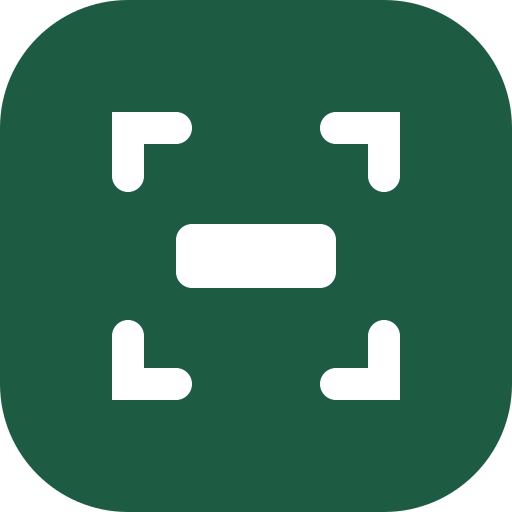
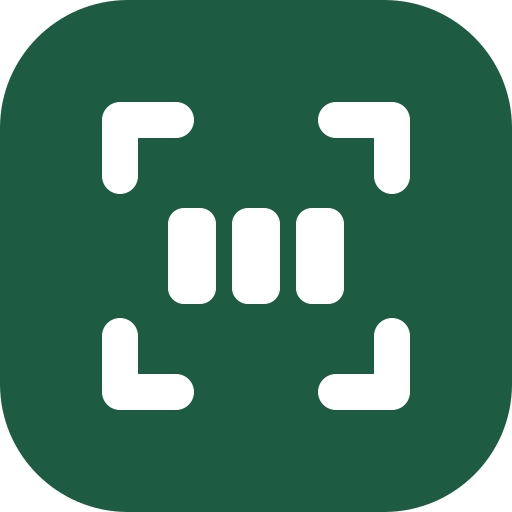
検索とSNS共有向けの説明・共有画像・robots.txt・sitemap.xmlを加え、ロゴを作り直した

diff --git a/index.html b/index.html
@@ -24,10 +24,52 @@
     <link rel="icon" href="./icon.svg" type="image/svg+xml" />
     <link rel="apple-touch-icon" href="./apple-touch-icon.png" />
     <meta name="apple-mobile-web-app-title" content="ｼﾘｱﾙｽﾅｯﾌﾟ" />
-    <title>シリアルスナップ</title>
+    <title>シリアルスナップ｜forTUNE meetsのシリアルナンバーを写真から読み取り</title>
+    <!--
+      検索結果とSNSで共有したときの表示。画面はURLのハッシュで切り替えるため、載せるページは / だけ。
+      共有の画像は絶対URLでないと読まれないため、公開先（docs/deploy.md）のURLを書く。og-image.png はデザインキャンバスの「共有画像」の画板を書き出したもの。
+    -->
+    <meta
+      name="description"
+      content="forTUNE meets（フォーチュンミーツ）の応募券を撮影するだけで、シリアルナンバーをまとめて読み取る非公式ツール。10件ずつコピーして、応募サイトへ貼り付けられます。写真もシリアルナンバーも端末の外へ送りません。"
+    />
+    <link rel="canonical" href="https://serial-snap.yabworks.com/" />
+    <meta property="og:type" content="website" />
+    <meta property="og:site_name" content="シリアルスナップ" />
+    <meta property="og:title" content="シリアルスナップ" />
+    <meta
+      property="og:description"
+      content="応募券を撮影するだけで、forTUNE meetsのシリアルナンバーをまとめて読み取る非公式ツール。写真もシリアルナンバーも端末の外へ送りません。"
+    />
+    <meta property="og:url" content="https://serial-snap.yabworks.com/" />
+    <meta property="og:image" content="https://serial-snap.yabworks.com/og-image.png" />
+    <meta property="og:image:width" content="1200" />
+    <meta property="og:image:height" content="630" />
+    <meta property="og:image:alt" content="シリアルスナップ。応募券を撮影するだけで、シリアルナンバーをまとめて読み取り。写真もシリアルナンバーも、端末の外へ送りません" />
+    <meta property="og:locale" content="ja_JP" />
+    <meta name="twitter:card" content="summary_large_image" />
+    <!-- 検索エンジン向けのアプリの説明。実行されないデータのため、CSP の script-src に掛からない -->
+    <script type="application/ld+json">
+      {
+        "@context": "https://schema.org",
+        "@type": "WebApplication",
+        "name": "シリアルスナップ",
+        "url": "https://serial-snap.yabworks.com/",
+        "description": "forTUNE meetsの応募券を撮影して、シリアルナンバーをまとめて読み取る非公式ツール。",
+        "applicationCategory": "UtilitiesApplication",
+        "operatingSystem": "iOS, Android, Windows, macOS",
+        "browserRequirements": "JavaScriptとWebAssemblyが動くブラウザ",
+        "inLanguage": "ja",
+        "isAccessibleForFree": true,
+        "offers": { "@type": "Offer", "price": "0", "priceCurrency": "JPY" }
+      }
+    </script>
   </head>
   <body>
     <div id="root"></div>
+    <noscript>
+      シリアルスナップは、forTUNE meetsのシリアルナンバーを写真から読み取る非公式ツールです。読み取りは端末の中で行うため、JavaScriptを有効にしてお使いください。
+    </noscript>
     <script type="module" src="./src/client/main.tsx"></script>
   </body>
 </html>

diff --git a/src/client/components/TopBar.tsx b/src/client/components/TopBar.tsx
@@ -11,6 +11,7 @@ import { Logo } from "./Logo.tsx";
  * @param back 戻るボタンの押したときの動きと、読み上げの名前
  * @param sub 題の下に小さく添える文（「あと29日で削除」など）
  * @param compact 題を一段小さくする（読み取り結果の日時のように、長い題で右の操作と並べるとき）
+ * @param heading 題をページの見出し（h1）にする。本文に見出しのない画面（トップ）で使う
  */
 export function TopBar({
   title,
@@ -19,6 +20,7 @@ export function TopBar({
   back,
   actions,
   compact = false,
+  heading = false,
 }: {
   title: ReactNode;
   sub?: ReactNode;
@@ -27,7 +29,9 @@ export function TopBar({
   back?: { label: string; onClick: () => void };
   actions?: ReactNode;
   compact?: boolean;
+  heading?: boolean;
 }) {
+  const Title = heading ? "h1" : "span";
   return (
     <div
       className={cx(
@@ -64,7 +68,7 @@ export function TopBar({
       {leading}
       <div className={css({ flex: "1", minW: "0", display: "flex", flexDirection: "column" })}>
         <div className={css({ display: "flex", alignItems: "center", gap: "2" })}>
-          <span
+          <Title
             className={css({
               fontSize: compact ? "md" : "lg",
               fontWeight: "bold",
@@ -75,7 +79,7 @@ export function TopBar({
             })}
           >
             {title}
-          </span>
+          </Title>
         </div>
         {sub && (
           <span className={css({ fontSize: "xs", color: "fg.muted", lineHeight: "tight" })}>
@@ -123,14 +127,16 @@ export function HeaderActions() {
  * アプリの名前のヘッダー。トップと、読み取り中・まとめの画面のように、
  * 画面の名前を題にしない（本文の見出しで示す）画面で使う。
  * @param actions 右に置く操作。スキャン中は画面を離れないよう置かない
+ * @param heading アプリの名前をページの見出し（h1）にする。トップで使う（検索エンジンがページの主題として読む）
  */
-export function AppBar({ actions }: { actions?: ReactNode }) {
+export function AppBar({ actions, heading }: { actions?: ReactNode; heading?: boolean }) {
   return (
     <TopBar
       title="シリアルスナップ"
       sub="forTUNE meets非公式ツール"
       leading={<Logo />}
       actions={actions}
+      heading={heading}
     />
   );
 }

diff --git a/src/client/features/guide/AddBookmarkletPage.tsx b/src/client/features/guide/AddBookmarkletPage.tsx
@@ -48,7 +48,10 @@ function detectDevice(): Device {
 /** コピーしてから次のステップへ進むまでの時間。「コピーしました」を読めるだけの間を置く。 */
 const AUTO_NEXT_MS = 1200;
 
-/** 案内で例に出す、ブックマークレットの名前。アプリのページのタイトルと同じで、追加するときに自動で入る。 */
+/**
+ * 案内で例に出す、ブックマークレットの名前。この画面の間だけページのタイトルをこれにし、
+ * ブックマークに追加するときに自動で入るようにする（ふだんのタイトルは検索結果向けに長い）。
+ */
 const EXAMPLE_NAME = "シリアルスナップ";
 
 /** 図の中で押す場所。対象の要素に「ここを押す」の枠を付けるため、角を丸めて少し余白を取る。 */
@@ -754,6 +757,13 @@ function pcSteps() {
 /** ブックマークレットの追加方法。端末ごとのタブで、1画面1ステップの図解を出す。 */
 export function AddBookmarkletPage() {
   const [device, setDevice] = useState<Device>(detectDevice);
+  useEffect(() => {
+    const original = document.title;
+    document.title = EXAMPLE_NAME;
+    return () => {
+      document.title = original;
+    };
+  }, []);
   const [step, setStep] = useState(0);
   const next = () => setStep(1);
   const steps =

diff --git a/scripts/vite-sw.ts b/scripts/vite-sw.ts
@@ -5,8 +5,10 @@ import { build, type Plugin } from "vite";
 
 const ENTRY = fileURLToPath(new URL("../src/sw/sw.ts", import.meta.url));
 const PUBLIC_DIR = new URL("../public/", import.meta.url);
-/** 配信の設定で、ブラウザには届かないファイル。 */
-const NOT_SERVED = new Set(["_headers"]);
+/**
+ * 端末に保存しないファイル。_headers は配信の設定でブラウザに届かず、ほかは検索エンジンやSNS向けで画面が使わない。
+ */
+const NOT_CACHED = new Set(["_headers", "robots.txt", "sitemap.xml", "og-image.png"]);
 
 /** Service Worker を、配るファイルの一覧と保存先の名前を埋め込んで1つのファイルにまとめる。 */
 async function bundle(files: string[], cacheName: string): Promise<string> {
@@ -43,7 +45,7 @@ export function serviceWorker(): Plugin {
     // index.html の中身も版に含めるため、画面のファイルを出力し終えたあとに作る
     enforce: "post",
     async generateBundle(_options, output) {
-      const publicFiles = (await readdir(PUBLIC_DIR)).filter((f) => !NOT_SERVED.has(f));
+      const publicFiles = (await readdir(PUBLIC_DIR)).filter((f) => !NOT_CACHED.has(f));
       const files = [
         ...Object.keys(output).filter((f) => f !== "index.html"),
         ...publicFiles,

diff --git a/src/client/components/Logo.tsx b/src/client/components/Logo.tsx
@@ -1,16 +1,19 @@
-/** アプリのロゴマーク（緑の角丸に読み取り枠とシリアルの枠）。ホーム画面に追加したときのアイコンも、この形で作る。 */
+/** アプリのロゴマーク（緑の角丸に読み取り枠と3文字）。ホーム画面に追加したときのアイコンも、この形で作る。 */
 export function Logo({ size = 32 }: { size?: number }) {
   return (
     <svg width={size} height={size} viewBox="0 0 32 32" aria-hidden="true" style={{ flex: "none" }}>
       <rect width="32" height="32" rx="8" fill="#1D5C42" />
       <path
-        d="M8 11V8h3M21 8h3v3M24 21v3h-3M11 24H8v-3"
+        d="M7.5 11V7.5H11M21 7.5h3.5V11M24.5 21v3.5H21M11 24.5H7.5V21"
         fill="none"
         stroke="#FFFFFF"
-        strokeWidth="2"
+        strokeWidth="2.25"
         strokeLinecap="round"
+        strokeLinejoin="round"
       />
-      <rect x="11" y="14" width="10" height="4" rx="1" fill="#FFFFFF" />
+      <rect x="10.5" y="13" width="3" height="6" rx="1" fill="#FFFFFF" />
+      <rect x="14.5" y="13" width="3" height="6" rx="1" fill="#FFFFFF" />
+      <rect x="18.5" y="13" width="3" height="6" rx="1" fill="#FFFFFF" />
     </svg>
   );
 }

diff --git a/src/client/features/top/TopPage.tsx b/src/client/features/top/TopPage.tsx
@@ -69,7 +69,7 @@ export function TopPage() {
     <AppShell
       header={
         <>
-          <AppBar actions={<HeaderActions />} />
+          <AppBar actions={<HeaderActions />} heading />
           <PrivacyBand />
         </>
       }

diff --git a/docs/deploy.md b/docs/deploy.md
@@ -10,6 +10,7 @@
   - COOP/COEP（文字認識を複数スレッドにする）、`X-Content-Type-Options`・`Referrer-Policy`・`frame-ancestors`。
   - 画面と `sw.js` は `max-age=0` で毎回確かめ、`no-transform` で Cloudflare に HTML を書き換えさせない（ゾーンの Web Analytics の自動挿入や Email Obfuscation が入らないように）。
   - `assets/` の下は名前にハッシュが入るため、1年キャッシュする。
+- 検索エンジンとSNS向けに、`index.html` に説明・canonical・OGP・構造化データ（JSON-LD）を書き、`robots.txt`・`sitemap.xml`・`og-image.png` を置く。画面はハッシュで切り替えるため、載せるURLは `/` だけ。この3ファイルは画面が使わないため、Service Workerは保存しない。`og-image.png` はデザインキャンバスの「共有画像」の画板を書き出したもので、文言やロゴを変えたら作り直す。公開先のURLを変えたら、これらの絶対URLも直す。
 - 1ファイル25MiBの上限があるが、最も大きいWASMでも約14MBで収まる。
 - 静的アセットへのリクエストは無料で、Worker の呼び出しに数えない。
 
